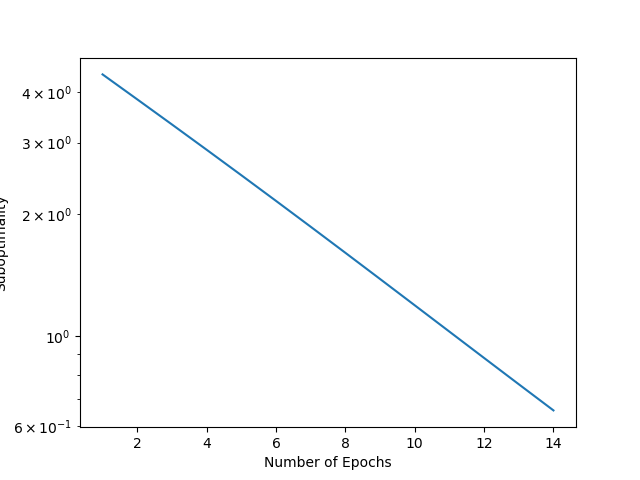
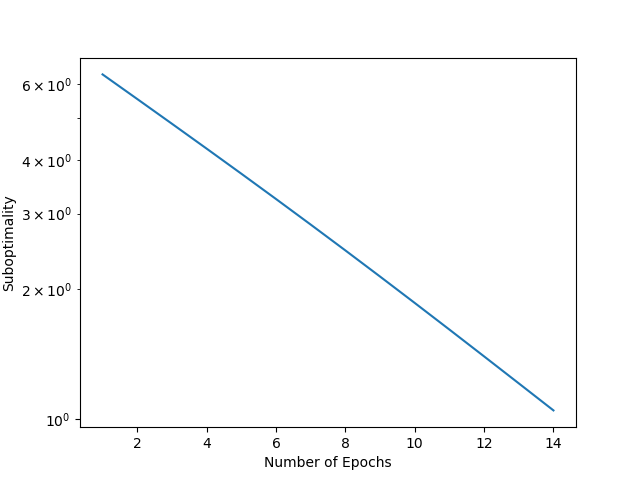
added while loop in biconjugate gradient method

diff --git a/a9a_analysis.py b/a9a_analysis.py
@@ -84,16 +84,16 @@ class A9A_Analysis:
         return w, loss_values
 
 
-    def biconjugate_gradient_stable(self, w, b):
+    def biconjugate_gradient_stable(self, w, b, tol=10**-3):
 
         # A = hessian 
-        num_iter = 15
+        num_iter = 1
         
-        x = [None] * num_iter 
-        r = [None] * num_iter
-        r_hat = [None] * num_iter
-        rho = [None] * num_iter
-        p = [None] * num_iter
+        x = [None]
+        r = [None]
+        r_hat = [None]
+        rho = [None]
+        p = [None]
 
         # initialize parameters
         x[0] = torch.rand(b.shape[0])
@@ -105,29 +105,32 @@ class A9A_Analysis:
         rho[0] = (r_hat[0].T @ r[0])
         p[0] = r[0]
 
-        for i in range(1, num_iter):
 
-            v = torch.autograd.functional.hvp(self.l2_regularized_logistic_regression_loss, w, p[i - 1])[1]
+        while True:
+
+            v = torch.autograd.functional.hvp(self.l2_regularized_logistic_regression_loss, w, p[-1])[1]
             # v = A @ p[i - 1]
-            alpha = rho[i - 1]/(r_hat[0].T @ v)
-            h = x[i - 1] + (alpha * p[i - 1])
-            s = r[i - 1] - (alpha * v)
+            alpha = rho[-1]/(r_hat[0].T @ v)
+            h = x[-1] + (alpha * p[-1])
+            s = r[-1] - (alpha * v)
 
-            dist_to_solution = b - torch.autograd.functional.hvp(self.l2_regularized_logistic_regression_loss, w, x[i - 1])[1]
-            if (torch.norm(dist_to_solution)) <= 10**-3:
-                return x[i - 1]
+            dist_to_solution = b - torch.autograd.functional.hvp(self.l2_regularized_logistic_regression_loss, w, x[-1])[1]
+            if (torch.norm(dist_to_solution)) <= tol:
+                return x[-1], num_iter
 
             t = torch.autograd.functional.hvp(self.l2_regularized_logistic_regression_loss, w, s)[1]
             #t = A @ s 
             omega = (t.T @ s)/(t.T @ t)
-            x[i] = h + (omega * s)
-            r[i] = s - (omega * t)
-            rho[i] = (r_hat[0].T @ r[i])
+            x.append(h + (omega * s))
+            r.append(s - (omega * t))
+            rho.append(r_hat[0].T @ r[-1])
 
-            beta = (rho[i]/rho[i - 1]) * (alpha/omega)
-            p[i] = r[i] + (beta * (p[i - 1] - (omega * v)))
+            beta = (rho[-1]/rho[-2]) * (alpha/omega)
+            p.append(r[-1] + (beta * (p[-1] - (omega * v))))
+
+            num_iter += 1
         
-        return x[-1]
+        return x[-1], num_iter
 
 
     def sketch_newton_method(self, num_epochs):
@@ -153,7 +156,7 @@ class A9A_Analysis:
             
             # solve the linear system with conjugate gradient using hessian vector products
 
-            update = self.biconjugate_gradient_stable(w, gradient)
+            update, _ = self.biconjugate_gradient_stable(w, gradient, 0.001)
             #update = self.conjugate_gradient_hessian_vp(gradient, w)
             w = w - (0.1 * update) 
             loss_val = self.l2_regularized_logistic_regression_loss(w).item()
